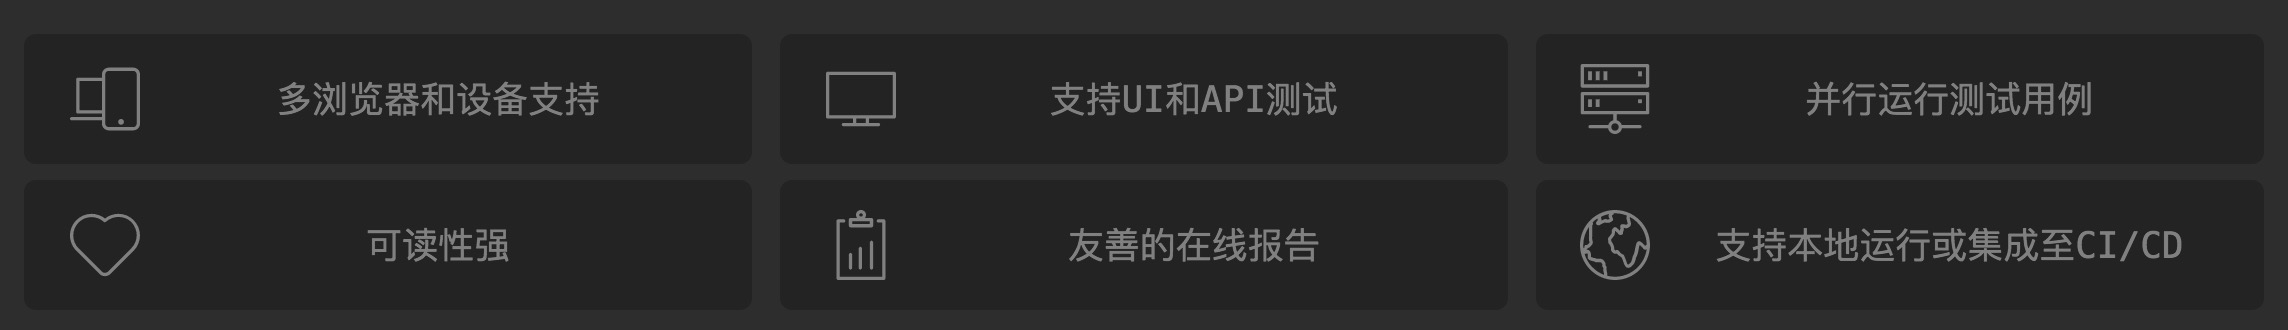
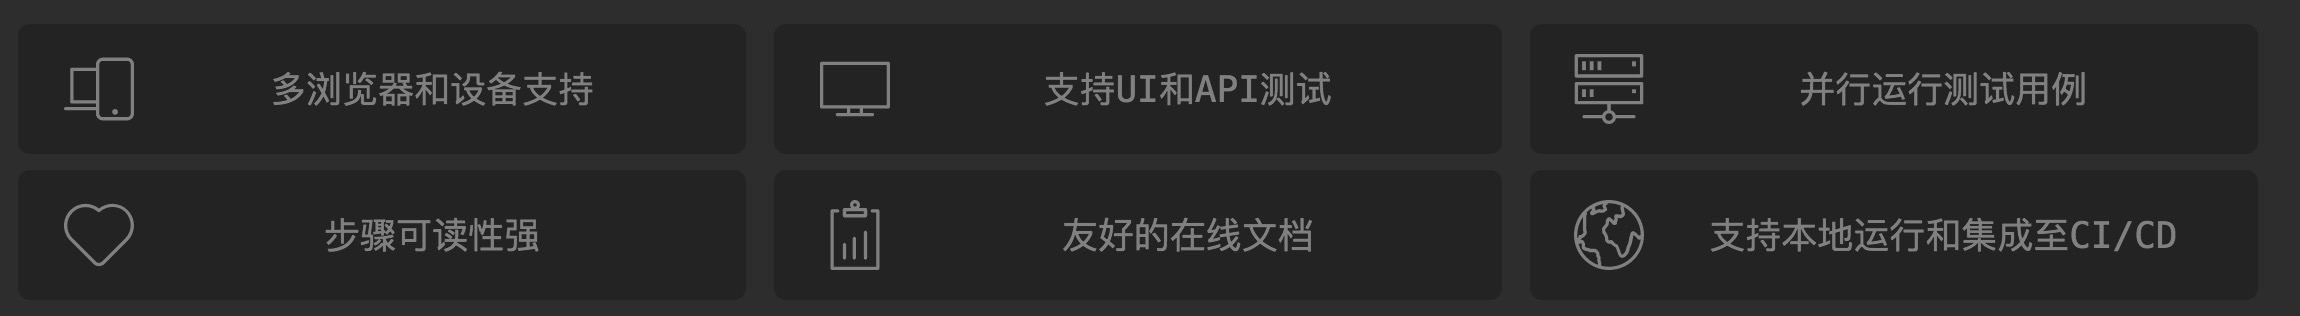
feat: update readme

diff --git a/README.md b/README.md
@@ -1,17 +1,118 @@
+> 本仓库基于[smashtest](https://github.com/smashtestio/smashtest)学习和翻译，其中增加了学习过程中写了一些例子在 sample下
+
 # Smashtest介绍
 
 > ###### Smashtest是一种快速描述和部署测试用例的语言。
 
 它以树形结构写测试用例，极大的加速你的自动化测试用例速度;树代表我们在测试时的想法。它们允许我们列出从任何给定点分支的所有排列。
 
+* 多浏览器和设备支持
+* 支持UI和API测试
+* 并行运行测试用例
+* 步骤可读性强
+* 友好的在线文档
+* 支持本地运行和集成至CI/CD
+
+### 例子
+
+```
+Open Chrome
+Open Firefox
+Open Safari
+
+    Navigate to 'site.com'
+
+        Click 'Sign In'
+
+            Type {username:} into 'username box'
+
+                {username} is 'joe'
+                {username} is 'bob'
+                {username} is 'mary'
+
+                    Verify success
+
+                {username} is 'baduser'
+
+                    Verify error
+```
+
+### 运行情况
+
+```
+Test Case 1                        Test Case 2                        Test Case 3
+-----------                        -----------                        -----------
+Open Chrome                        Open Firefox                       Open Safari
+Navigate to 'site.com'             Navigate to 'site.com'             Navigate to 'site.com'
+Click ['Sign In']                  Click ['Sign In']                  Click ['Sign In']
+Type 'joe' into [username box]     Type 'joe' into [username box]     Type 'joe' into [username box]
+Verify success                     Verify success                     Verify success
+
+
+Test Case 4                        Test Case 5                        Test Case 6
+-----------                        -----------                        -----------
+Open Chrome                        Open Firefox                       Open Safari
+Navigate to 'site.com'             Navigate to 'site.com'             Navigate to 'site.com'
+Click ['Sign In']                  Click ['Sign In']                  Click ['Sign In']
+Type 'bob' into [username box]     Type 'bob' into [username box]     Type 'bob' into [username box]
+Verify success                     Verify success                     Verify success
+
+
+Test Case 7                        Test Case 8                        Test Case 9
+-----------                        -----------                        -----------
+Open Chrome                        Open Firefox                       Open Safari
+Navigate to 'site.com'             Navigate to 'site.com'             Navigate to 'site.com'
+Click ['Sign In']                  Click ['Sign In']                  Click ['Sign In']
+Type 'mary' into [username box]    Type 'mary' into [username box]    Type 'mary' into [username box]
+Verify success                     Verify success                     Verify success
+
+
+Test Case 10                       Test Case 11                       Test Case 12
+------------                       ------------                       ------------
+Open Chrome                        Open Firefox                       Open Safari
+Navigate to 'site.com'             Navigate to 'site.com'             Navigate to 'site.com'
+Click ['Sign In']                  Click ['Sign In']                  Click ['Sign In']
+Type 'baduser' into [username box] Type 'baduser' into [username box] Type 'baduser' into [username box]
+Verify error                       Verify error                       Verify error
+```
+
+### 运行代码
+
+```
+Test Case 1
+-----------
+let driver = await new Builder().forBrowser('chrome').build();
+await driver.get('http://site.com');
+let signInButton = await driver.findElement(By.id('#sign-in'));
+await signInButton.click();
+await driver.wait(until.elementLocated(By.id('#username-box')), 10000);
+let usernameBox = await driver.findElement(By.id('#username-box'));
+await usernameBox.sendKeys('joe');
+await driver.wait(until.elementLocated(By.id('#success-element')), 10000);
+
+
+Test Case 2
+-----------
+let driver = await new Builder().forBrowser('firefox').build();
+await driver.get('http://site.com');
+let signInButton = await driver.findElement(By.id('#sign-in'));
+await signInButton.click();
+await driver.wait(until.elementLocated(By.id('#username-box')), 10000);
+let usernameBox = await driver.findElement(By.id('#username-box'));
+await usernameBox.sendKeys('joe');
+await driver.wait(until.elementLocated(By.id('#success-element')), 10000);
+
+
+etc.
+```
+
+### 安装
+
 ```
         npm i -g smashtest
 ```
 
-本仓库基于[smashtest](https://github.com/smashtestio/smashtest)学习和翻译
-其中增加了学习过程中写了一些例子在 sample下
-
-# 目录
+### 文档
 
 * [介绍](introduce.md)
 * [开始](chapter1-setup.md)
@@ -57,4 +158,16 @@
 * [REPL](repl.md)
 * [安装包](an-zhuang-bao.md)
 * [联系我们](lian-xi-wo-men.md)
+
+### 用法
+
+```
+smashtest [.smash files to run] [options]
+```
+
+```
+smashtest -? 列出帮助选项
+```
+
+
 
